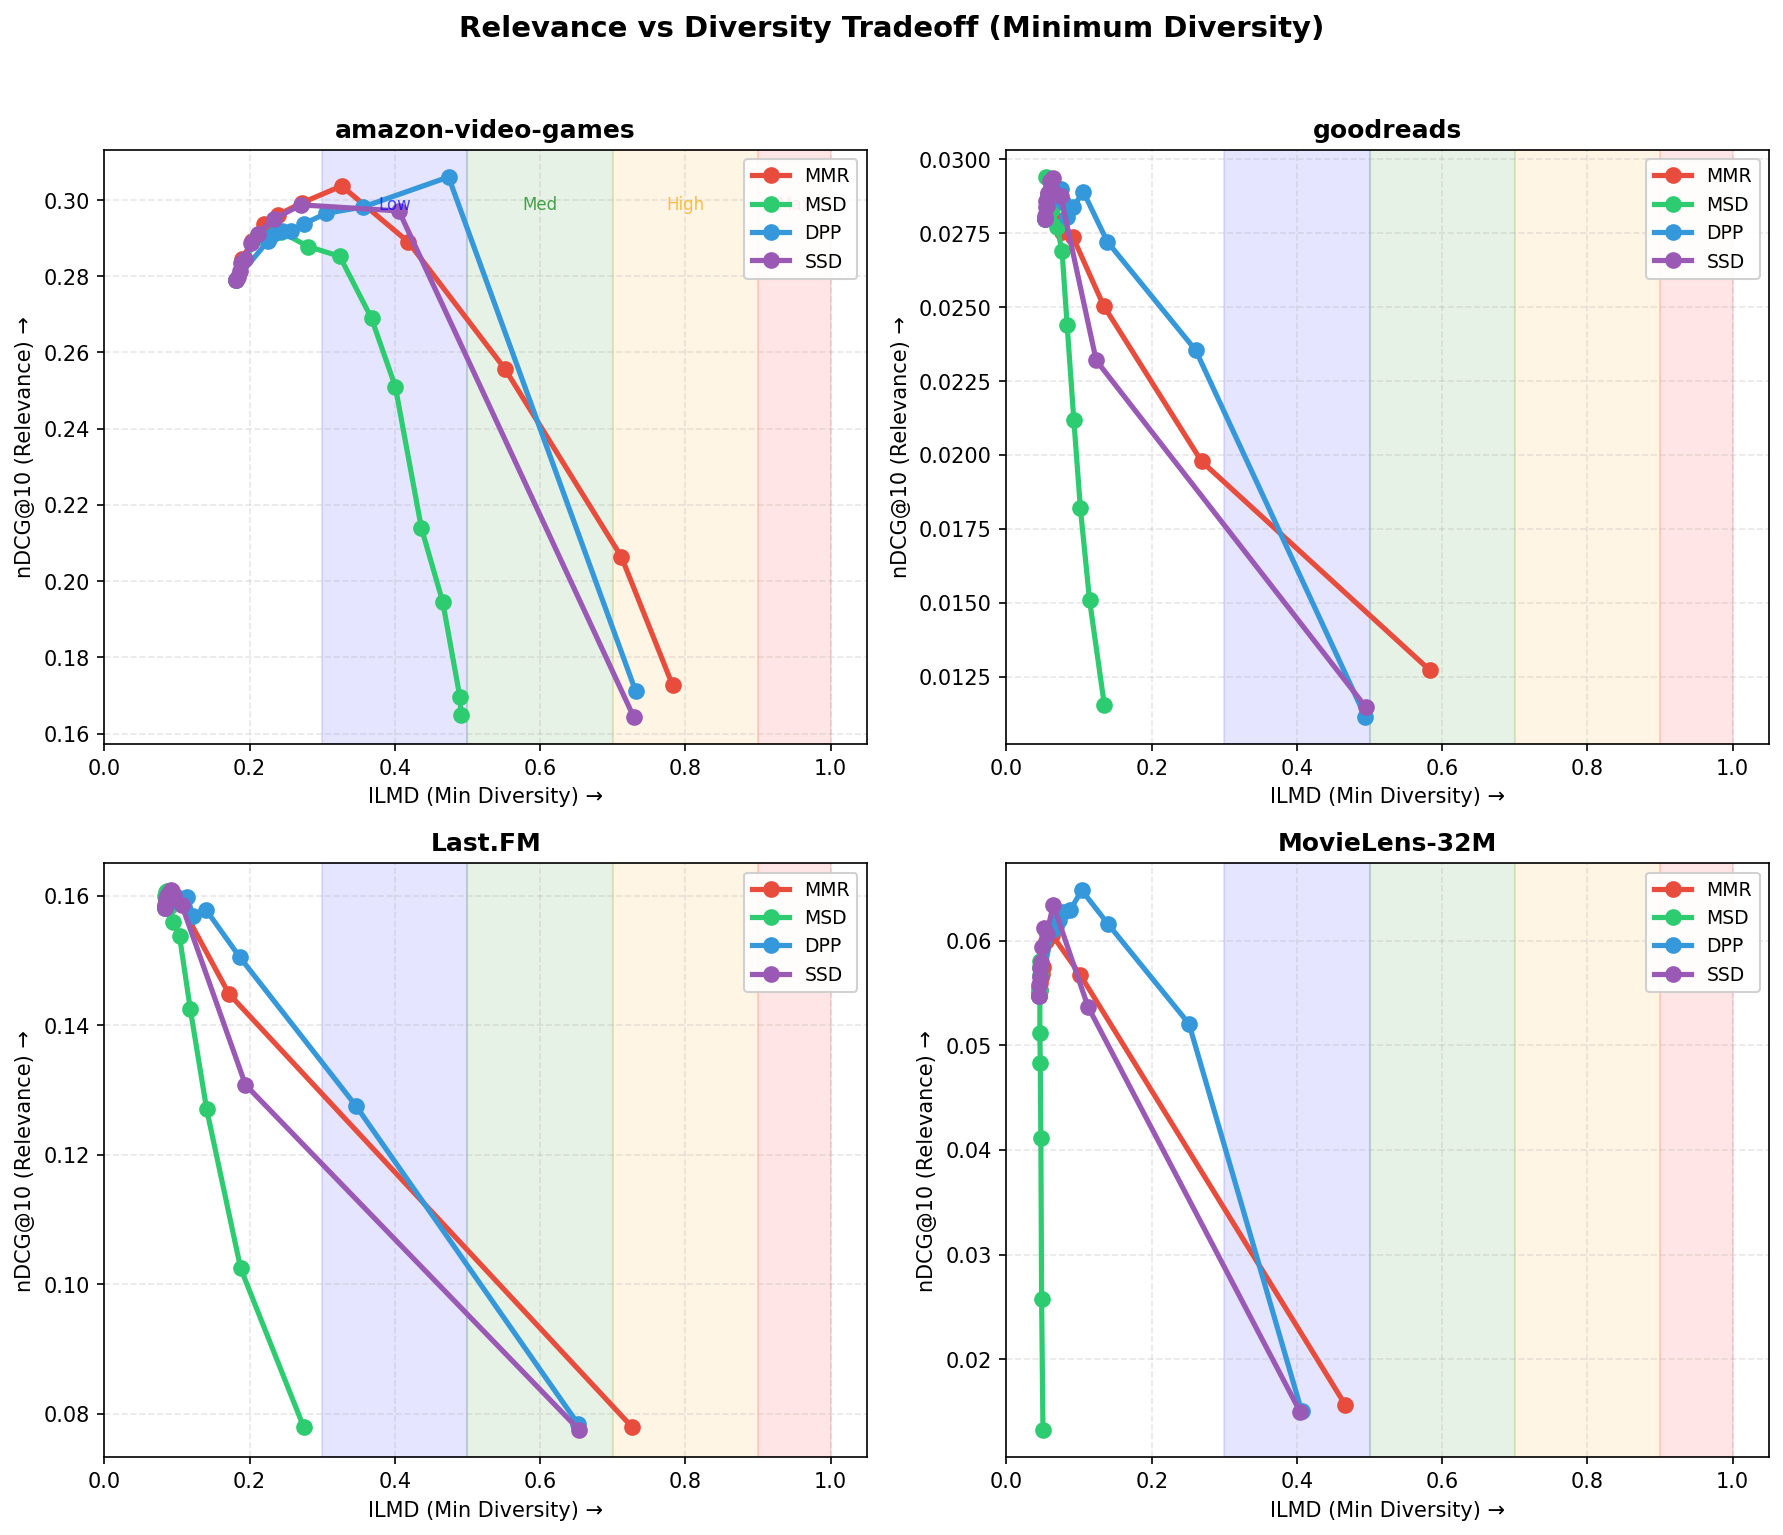
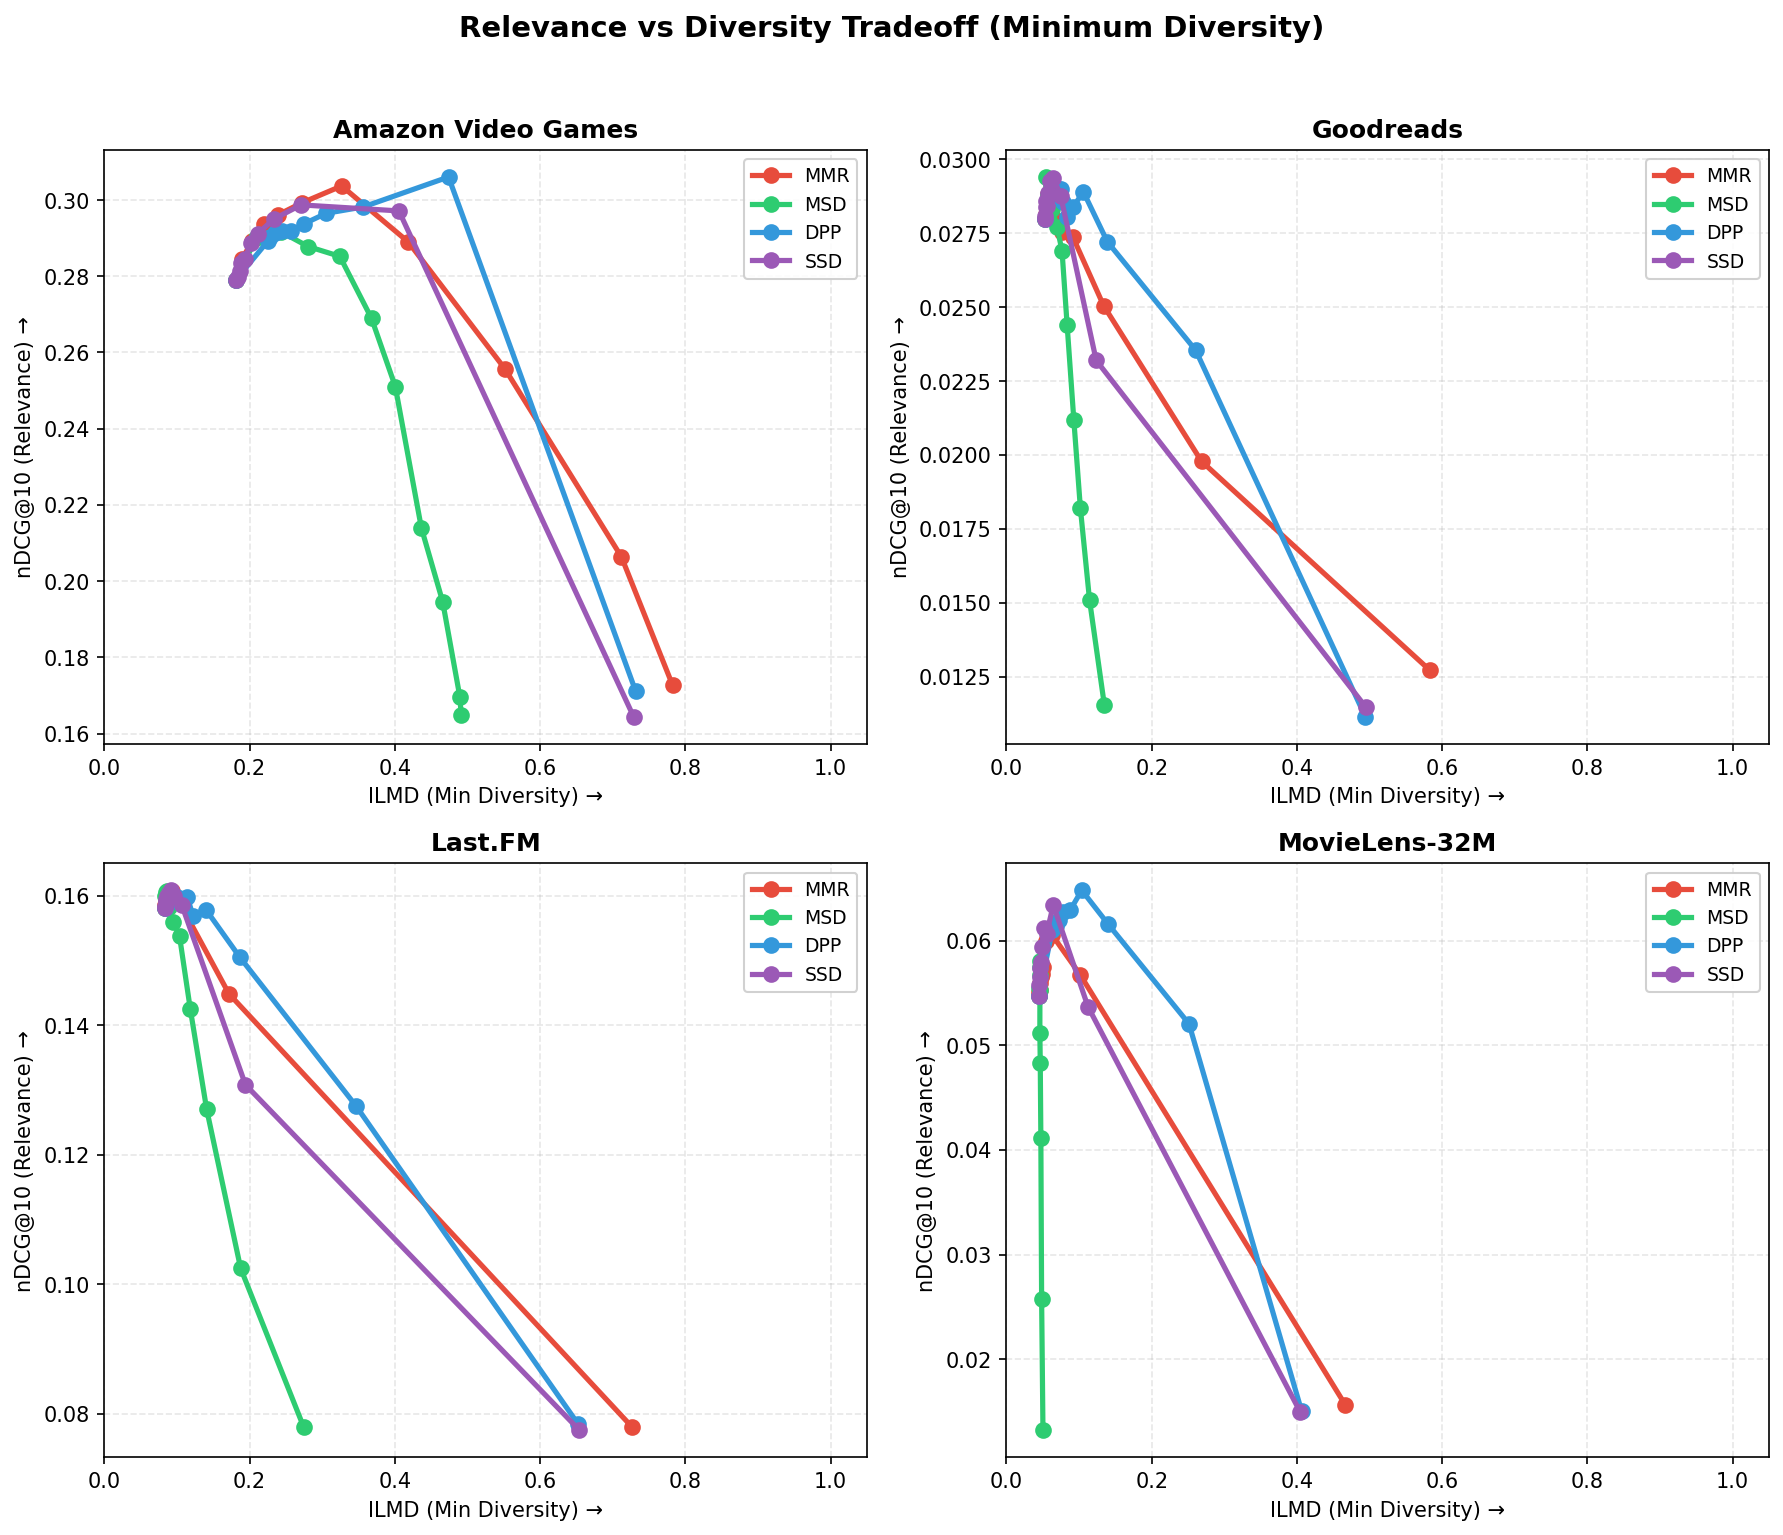
Updated plots

diff --git a/benchmarks/core/report.py b/benchmarks/core/report.py
@@ -193,18 +193,21 @@ def generate_pareto_plot(all_data: list[dict], output_path: Path, diversity_metr
     name_map = {
         "ml-32m": "MovieLens-32M",
         "lastfm": "Last.FM",
-        "amazon-product-reviews-video-games": "Amazon Video Games",
-        "goodreads-rating": "Goodreads",
+        "amazon-video-games": "Amazon Video Games",
+        "goodreads": "Goodreads",
     }
 
     metric_label = "ILAD (Avg Diversity)" if diversity_metric == "ilad" else "ILMD (Min Diversity)"
 
-    for ax, dataset in zip(axes, datasets):
-        ax.axvspan(0.3, 0.5, alpha=0.1, color="blue", label="_Low")
-        ax.axvspan(0.5, 0.7, alpha=0.1, color="green", label="_Moderate")
-        ax.axvspan(0.7, 0.9, alpha=0.1, color="orange", label="_High")
-        ax.axvspan(0.9, 1.0, alpha=0.1, color="red", label="_Max")
+    # Use seaborn styling
+    try:
+        import seaborn as sns
 
+        sns.set_theme(style="whitegrid", palette="muted")
+    except ImportError:
+        pass  # Fall back to matplotlib defaults
+
+    for ax, dataset in zip(axes, datasets):
         for strategy in strategies:
             strategy_points = [p for p in all_data if p["dataset"] == dataset and p["strategy"] == strategy]
             strategy_points = sorted(strategy_points, key=lambda x: x["lambda"])
@@ -223,13 +226,6 @@ def generate_pareto_plot(all_data: list[dict], output_path: Path, diversity_metr
         ax.grid(True, alpha=0.3, linestyle="--")
         ax.set_xlim(0.0, 1.05)
 
-    first_ax = axes[0]
-    y_top = first_ax.get_ylim()[1]
-    first_ax.text(0.4, y_top * 0.95, "Low", ha="center", fontsize=8, color="blue", alpha=0.7)
-    first_ax.text(0.6, y_top * 0.95, "Med", ha="center", fontsize=8, color="green", alpha=0.7)
-    first_ax.text(0.8, y_top * 0.95, "High", ha="center", fontsize=8, color="orange", alpha=0.7)
-    first_ax.text(0.95, y_top * 0.95, "Max", ha="center", fontsize=8, color="red", alpha=0.7)
-
     title_suffix = "(Average Diversity)" if diversity_metric == "ilad" else "(Minimum Diversity)"
     plt.suptitle(f"Relevance vs Diversity Tradeoff {title_suffix}", fontsize=14, fontweight="bold", y=1.02)
     plt.tight_layout()
@@ -243,6 +239,14 @@ def generate_latency_plot(output_path: Path) -> None:
 
     from benchmarks.core.latency import run_latency_benchmark
 
+    # Use seaborn styling
+    try:
+        import seaborn as sns
+
+        sns.set_theme(style="whitegrid", palette="muted")
+    except ImportError:
+        pass  # Fall back to matplotlib defaults
+
     logger.info("Running synthetic latency benchmark...")
     results = run_latency_benchmark()
 
@@ -250,7 +254,6 @@ def generate_latency_plot(output_path: Path) -> None:
 
     strategies = ["mmr", "msd", "dpp", "ssd"]
     colors = {"mmr": "#e74c3c", "msd": "#2ecc71", "dpp": "#3498db", "ssd": "#9b59b6"}
-    linestyles = {"mmr": "-", "msd": "--", "dpp": "-.", "ssd": "-"}
     markers = {"mmr": "o", "msd": "s", "dpp": "^", "ssd": "D"}
 
     for strategy in strategies:
@@ -264,7 +267,6 @@ def generate_latency_plot(output_path: Path) -> None:
             x_vals,
             y_vals,
             color=colors[strategy],
-            linestyle=linestyles[strategy],
             marker=markers[strategy],
             label=strategy.upper(),
             markersize=8,
@@ -292,8 +294,8 @@ def _log_relevance_budgeted_analysis(all_data: list[dict]) -> None:
     name_map = {
         "ml-32m": "MovieLens-32M",
         "lastfm": "Last.FM",
-        "amazon-product-reviews-video-games": "Amazon Video Games",
-        "goodreads-rating": "Goodreads",
+        "amazon-video-games": "Amazon Video Games",
+        "goodreads": "Goodreads",
     }
 
     logger.info("\nBest configs per dataset (maintaining ≥95% baseline relevance):")
